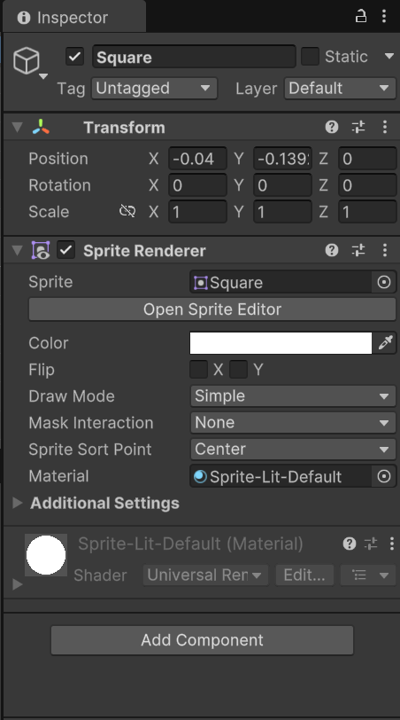
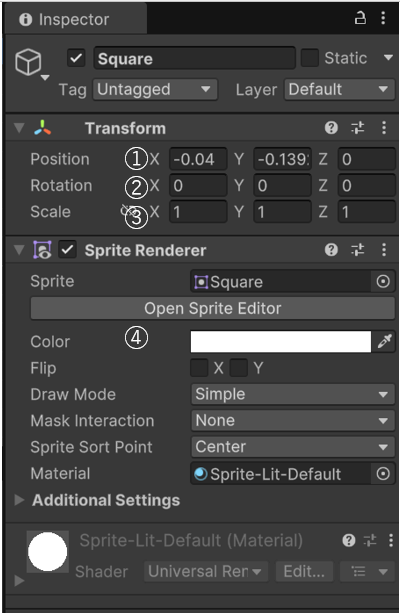
中級の1まで完成

diff --git a/tutorial/beginner.html b/tutorial/beginner.html
@@ -51,13 +51,14 @@
             <img src="../image/04.png" alt="Unityの画面をFullHDにする">
             <p>FreeAspectをクリック→FullHD(1920×1080)を選択<br />基本的にPCの画面は1920×1080の解像度が多いので、これを選択するとゲームの画面がきれいに表示されることが多いです。</p><br />
             
-            <img src="../image/05.png" alt="Sceneの名前を変える">
-            <p>プロジェクトウィンドウでScenesフォルダをクリック→Sceneを右クリック→名前を変更→名前をGameに変更</p>
-            <p>シーンとはヒエラルキー、シーン、ゲームウィンドウをまとめたものでシーンを切り替えることでタイトル→ゲーム画面やゲームオーバー画面→タイトルなどを再現できます。</p><br />
- 
             <img src="../image/06.png" alt="フォルダを作る">
             <img src="../image/07.png" alt="名前変更後">
             <p>プロジェクトウィンドウで右クリック→Create→Folderをクリック→名前をScriptsに変更</p><br />
+            
+            <img src="../image/05.png" alt="Sceneの名前を変える">
+            <p>プロジェクトウィンドウでScenesフォルダをクリック→SampleSceneを右クリック→名前を変更をクリック→名前をGameに変更</p>
+            <p>シーンとはヒエラルキー、シーン、ゲームウィンドウをまとめたものでシーンを切り替えることでタイトル→ゲーム画面やゲームオーバー画面→タイトルなどを再現できます。</p><br />
+ 
         </section>
 
         <section id="section3">
@@ -81,6 +82,7 @@
             <p class="tool-description">②向き: オブジェクトの向きを表す数字。左から順にx, y, zの向きが表示されていてこれを変えることでオブジェクトを正確な向きに配置できます。</p>
             <p class="tool-description">③大きさ: オブジェクトの大きさを表す数字。左から順にx, y, zの大きさが表示されていてこれを変えることでオブジェクトを正確な大きさに変えることができます。</p>
             <p class="tool-description">④形と色: オブジェクトの形と色を変えることができます。Spriteに入っている画像が形、Colorの右のウィンドウが色です。</p><br />
+            <!--下の行を強調-->
             <p>操作に慣れるまで好きな位置に色んな形のオブジェクトを置いてみてください</p>
         </section>
 
@@ -92,7 +94,7 @@
             <img src="../image/11.png" alt="スクリプトの作成"><br />
             <img src="../image/12.png" alt="Targetスクリプトも作成"><br />
 
-            <p>まずはGameManagerスクリプトをダブルクリックして開いてみましょう</p>
+            <p>まずはBombスクリプトをダブルクリックして開いてみましょう</p>
             <img src="../image/13.png" alt="GameManagerスクリプト">
             <p>VisualStudioが開いて図のようなコードが書いてあればOKです。</p><br />
             <p>確認出来たら、書いてあるコードを全て消して、以下のコードを書いてください。コピーもできます。</p>
@@ -107,7 +109,8 @@ public class Bomb : MonoBehaviour
 {
     [SerializeField, Header("「You Lose!」を表示するテキストボックス")]
     private Text resultText;
-    private bool isFailed = false; // はずれなら true
+    [SerializeField, Header("はずれの爆弾ならtrue")]
+    private bool isFailed = false;
     private bool gameEnded = false; // 一度負けたら他のクリックを無効化
 
     private void OnMouseDown()
@@ -131,30 +134,32 @@ public class Bomb : MonoBehaviour
 <span class="line-numbers">5</span>{
 <span class="line-numbers">6</span>    [SerializeField, Header("「You Lose!」を表示するテキストボックス")]
 <span class="line-numbers">7</span>    private Text resultText;
-<span class="line-numbers">8</span>    private bool isFailed = false; // はずれなら true
-<span class="line-numbers">9</span>    private bool gameEnded = false; // 一度負けたら他のクリックを無効化
-<span class="line-numbers">10</span>
-<span class="line-numbers">11</span>    private void OnMouseDown()
-<span class="line-numbers">12</span>    {
-<span class="line-numbers">13</span>        if (gameEnded) return; // ゲームが終わっていたら何もしない
-<span class="line-numbers">14</span>
-<span class="line-numbers">15</span>        if (isFailed)
-<span class="line-numbers">16</span>        {
-<span class="line-numbers">17</span>            gameEnded = true;
-<span class="line-numbers">18</span>            resultText.text = "You Lose!"; // 負けメッセージを表示
-<span class="line-numbers">19</span>        }
-<span class="line-numbers">20</span>        else
-<span class="line-numbers">21</span>        {
-<span class="line-numbers">22</span>            Destroy(this.gameObject); // クリックされたらオブジェクトを消す
-<span class="line-numbers">23</span>        }
-<span class="line-numbers">24</span>    }
-<span class="line-numbers">25</span>}</code></pre>
+<span class="line-numbers">8</span>    [SerializeField, Header("はずれの爆弾ならtrue")]
+<span class="line-numbers">9</span>    private bool isFailed = false;
+<span class="line-numbers">10</span>    private bool gameEnded = false; // 一度負けたら他のクリックを無効化
+<span class="line-numbers">11</span>
+<span class="line-numbers">12</span>    private void OnMouseDown()
+<span class="line-numbers">13</span>    {
+<span class="line-numbers">14</span>        if (gameEnded) return; // ゲームが終わっていたら何もしない
+<span class="line-numbers">15</span>
+<span class="line-numbers">16</span>        if (isFailed)
+<span class="line-numbers">17</span>        {
+<span class="line-numbers">18</span>            gameEnded = true;
+<span class="line-numbers">19</span>            resultText.text = "You Lose!"; // 負けメッセージを表示
+<span class="line-numbers">20</span>        }
+<span class="line-numbers">21</span>        else
+<span class="line-numbers">22</span>        {
+<span class="line-numbers">23</span>            Destroy(this.gameObject); // クリックされたらオブジェクトを消す
+<span class="line-numbers">24</span>        }
+<span class="line-numbers">25</span>    }
+<span class="line-numbers">26</span>}</code></pre>
             </div>
             <script src="../js/codeBlock.js"></script>
             <br />
 
 <!--ここまでコードブロック-->
 
+<!--保存を忘れずに的な要素を加える-->>
         <p>下図のようになればOKです。</p>
         <img src="../image/14.png" alt="Bombクラス(記述後)"><br />
 
@@ -187,7 +192,7 @@ public class Bomb : MonoBehaviour
             <p>Colliderとは当たり判定のことで、オブジェクトにColliderをつけることで緑の枠の範囲に当たり判定を作ることができます。</p>
             <img src="../image/20.png" alt="Colliderの確認"><br />
 
-            <p>次にBombスクリプトをAddComponentに向かってドラッグアンドドロップしてください。</p>
+            <p>次にBombスクリプトをオブジェクトのAddComponentに向かってドラッグアンドドロップしてください。</p>
             <img src="../image/21.png" alt="Bombスクリプトのアタッチ">
             <p>図のようになればOKです。</p>
 
@@ -293,7 +298,7 @@ public class Bomb : MonoBehaviour
             <div class="code-explanation">
                 <img src="../image/32.png" alt="関数">
                 <h2>関数</h2>
-                <p>これは関数を定義しています。関数とは、クラスの<span id="highlight-red">機能や動作</span>を定義するものです。</p>
+                <p>これは関数を定義(宣言)しています。関数とは、クラスの<span id="highlight-red">機能や動作</span>を定義するものです。</p>
                 <p>例えば、猫型ロボットというクラスがあったとしたら、「秘密道具を出す」、「どら焼きを食べる」、「押し入れで寝る」などの関数が考えられるでしょう。</p><br />                
 
                 <p>関数は下図のような要素でできています。</p>
@@ -371,7 +376,7 @@ public class Bomb : MonoBehaviour
                 <p class="challenge-item"><span class="level">LEVEL2</span>セーフの爆弾をクリックしたときは「セーフ」と表示しよう</p>
                 <p class="challenge-item"><span class="level">LEVEL3</span>スコアの追加</p>
             </div>
-            <p>正直レベル3は現時点ではまあ難しいと思います。一旦LEVEL2までこなして、レベル3は飛ばしても大丈夫です。</p>
+            <p>正直レベル3は現時点ではまあ難しいと思います。一旦レベル2までこなして、レベル3は飛ばしても大丈夫です。</p>
         </section>
     </div>
 

diff --git a/tutorial/intermediate.html b/tutorial/intermediate.html
@@ -13,8 +13,38 @@
     <div class="tutorial-content">
         <h1>Unity中級チュートリアル - ボール転がし</h1>
         <section>
-            <h2>1. 3Dオブジェクトの基礎</h2>
-            <p>球体とステージの作成、マテリアルの設定方法を学びます。</p>
+            <h2>1. 3Dオブジェクトの基礎</h2><br />
+
+            <img src="../image/49.png" alt="3Dプロジェクトの作成">
+            <p>Universal3Dを選択して、名前はRoll-a-Ballとしてください。保存場所はお好みで大丈夫です。</p><br />
+
+            <img src="../image/50.png" alt="フォルダの作成">
+            <p>プロジェクトが作れたらAssetsフォルダの下にScriptsフォルダとMaterialsフォルダを作成します。</p><br />
+
+            <p>さて、初級では出てこなかったシーンビューでの操作がでてきます。普段PCでゲームをする人は簡単かもしれませんが、初めての人は少し戸惑うかもしれません。</p>
+            <img src="../image/51.png" alt="シーンビューの操作">
+            <p>シーンビューでの操作方法：</p>
+            <ul>
+                <li><strong>視点の回転：</strong> 右クリックを押しながらマウスをドラッグ</li>
+                <li><strong>視点の軌道回転：</strong> Altキーを押しながらマウスの左ボタンでドラッグ（選択したオブジェクトを中心に回り込む）</li>
+                <li><strong>2D的な移動：</strong> マウスホイールを押しながらドラッグで上下左右に移動</li>
+                <li><strong>3D空間での移動（右クリックを押しながら）：</strong>
+                    <ul>
+                        <li>W - 前方向に移動</li>
+                        <li>S - 後ろ方向に移動</li>
+                        <li>A - 左方向に移動</li>
+                        <li>D - 右方向に移動</li>
+                        <li>E - 上方向に移動</li>
+                        <li>Q - 下方向に移動</li>
+                    </ul>
+                </li>
+            </ul>
+            <p>これらの操作を覚えるとシーンビューでの操作が楽になります。3Dでゲームを作るなら必須の操作になるので直感的に操作できるようになるまで慣らしていきましょう</p><br />
+
+            <p>配置などの操作は2Dのときと同じなので省略します。こんな感じのCubeを配置してください。座標やスケールを画像の通りにしておくと作るのが楽になるかもしれません。</p>
+            <img src="../image/52.png" alt="Cubeの配置">
+            <p>配置したら、名前はFloorとしてください。これが床になります。</p>
+            <img src="../image/53.png" alt="名前をFloorに変更">
         </section>
         <section>
             <h2>2. 物理演算の基礎</h2>

diff --git a/index.html b/index.html
@@ -100,7 +100,7 @@
             <div class="tutorial-card">
                 <div class="card-header beginner">
                     <h2>初級</h2>
-                    <span class="time-badge">推定所要時間: 2時間</span>
+                    <span class="time-badge">推定所要時間: 3時間</span>
                 </div>
                 <div class="card-content">
                     <h3>爆弾ゲーム</h3>
@@ -330,7 +330,7 @@
                 <div class="about-section">
                     <i class="fas fa-code"></i>
                     <h3>開発環境</h3>
-                    <p>ゲームはUnity(C#), VisualStudio、WebはHTML, CSS, JavaScript, VisualStudioCodeで開発しています。</p>
+                    <p>ゲームはUnity(C#), VisualStudio、WebはHTML, CSS, JavaScript, VisualStudioCode、ハードコーディングはPython, Arduinoで開発しています。</p>
                 </div>
             </div>
         </div>
